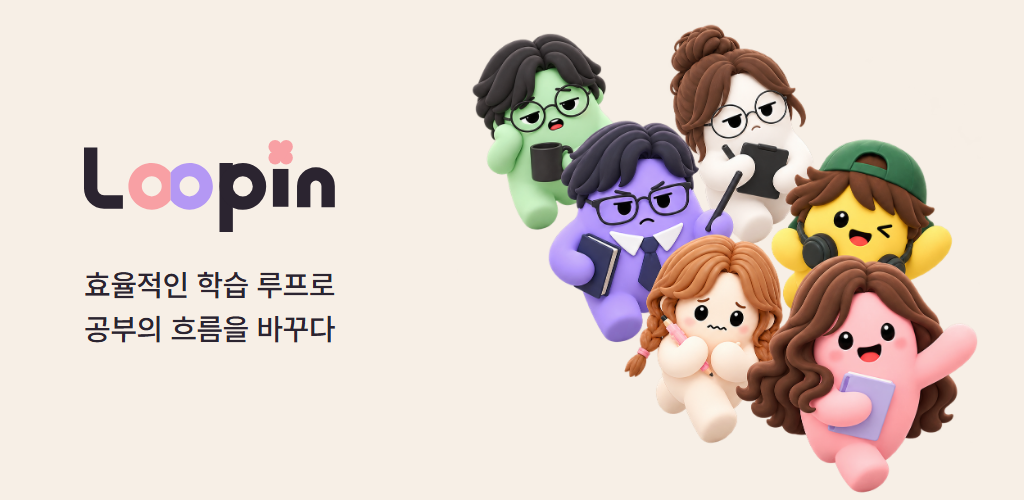
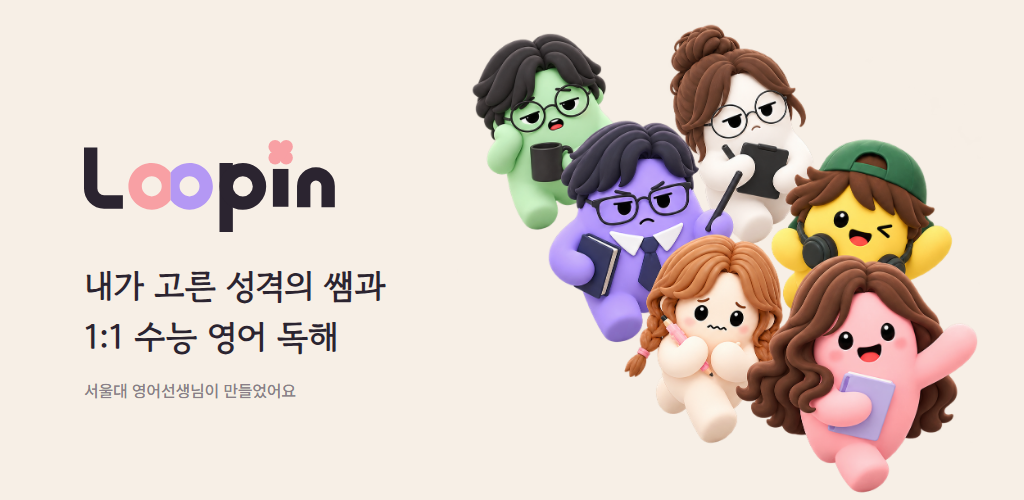
그래픽 이미지 문구: 「내가 고른 성격의 쌤과 / 1:1 수능 영어 독해」 + 「서울대 영어선생님이 만들었어요」
문구 글자체를 앱 선생님 대사와 같은 고운돋움(굵게 34px)으로 맞춤

Changed region(s): [[0.0625, 0.54, 0.375, 0.72], [0.0938, 0.75, 0.2812, 0.81]]

diff --git a/docs/store/feature-graphic/src/final.html b/docs/store/feature-graphic/src/final.html
@@ -1,18 +1,20 @@
 <!doctype html>
 <html lang="ko"><head><meta charset="utf-8">
-<link href="https://fonts.googleapis.com/css2?family=Noto+Sans+KR:wght@500;700&display=swap" rel="stylesheet">
+<link href="https://fonts.googleapis.com/css2?family=Gowun+Dodum&family=Noto+Sans+KR:wght@500;700&display=swap" rel="stylesheet">
 <style>
   /* Google Play 그래픽 이미지 1024×500. 배경·글자색은 앱(styles.css)과 같은 크림·자주 계열. */
   html,body{margin:0;width:1024px;height:500px;overflow:hidden;font-family:"Noto Sans KR","Malgun Gothic",sans-serif}
   .c{position:relative;width:1024px;height:500px;background:#f7efe6;overflow:hidden}
   .txt{position:absolute;left:84px;top:140px;width:420px}
   .logo{height:92px;display:block}
-  h1{margin:30px 0 0;font-size:29px;font-weight:500;color:#2b2430;letter-spacing:-.5px;line-height:1.5}
+  h1{margin:28px 0 0;font-family:"Gowun Dodum","Noto Sans KR",sans-serif;font-size:34px;font-weight:700;color:#2b2430;letter-spacing:-.5px;line-height:1.5}
+  .by{margin:16px 0 0;font-size:16px;font-weight:500;color:#8a7f88;letter-spacing:-.2px}
   .grp{position:absolute;right:28px;top:10px;height:490px}
 </style></head><body><div class="c">
   <div class="txt">
     <img class="logo" src="../../../../public/brand/loopin-logo-cream.svg" alt="Loopin">
-    <h1>효율적인 학습 루프로<br>공부의 흐름을 바꾸다</h1>
+    <h1>내가 고른 성격의 쌤과<br>1:1 수능 영어 독해</h1>
+    <p class="by">서울대 영어선생님이 만들었어요</p>
   </div>
   <img class="grp" src="../../../../public/brand/loopin-characters.png">
 </div></body></html>
